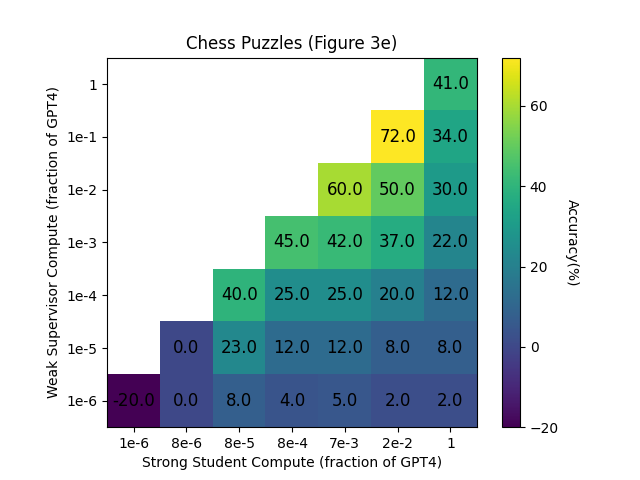
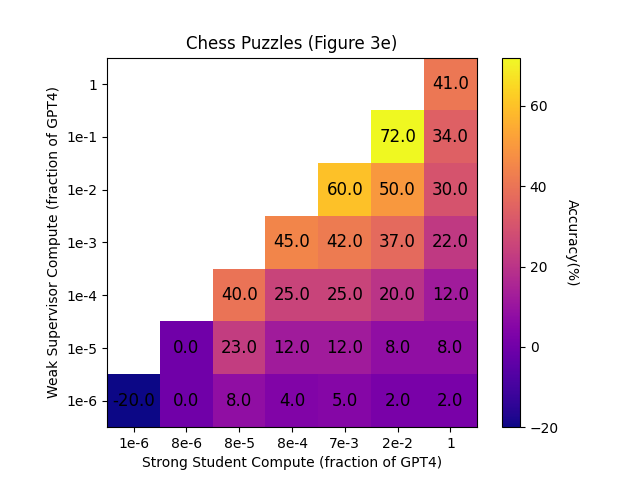
Added images and README

Changed region(s): [[0.1562, 0.125, 0.75, 0.9062], [0.7812, 0.1562, 0.8125, 0.9062]]

diff --git a/update-table.py b/update-table.py
@@ -42,7 +42,7 @@ XY[triu] = z
 for (i,j) in zip(triu[0], triu[1]):
     ax.text(j, i, f'{XY[i,j]}', ha='center', va='center', color='black', fontsize=12)
 
-cax = ax.matshow(XY, cmap='viridis', origin='lower')
+cax = ax.matshow(XY, cmap='plasma', origin='lower')
 ax.xaxis.set_ticks_position('bottom')
 plt.xticks(np.arange(7), xtx)
 plt.yticks(np.arange(7), ytx)

diff --git a/README.md b/README.md
@@ -1,0 +1,13 @@
+These are updated graphs proposed for the OpenAI Weak-to-Strong Generalization Paper along with the scripts I used to generate them. 
+
+I found the original graphs difficult to intuitively grasp, and felt they could be improved, especially considering the weak and strong compute fractions both seemed to be interval'ed in similar fashions, and were both scaled logarithmically, yet they were separated rather than being used as the x and y-axes. So I did my best to estimate the values in the original graph and made some updated ones.
+
+### Original Graph:
+![Original Graph](original_graph.png)
+
+###Colored Table Proposal:
+![Colored Table](table_colored.png)
+
+###Scatterplot Proposal:
+![Scatterplot](scatterplot_simple.png)
+
